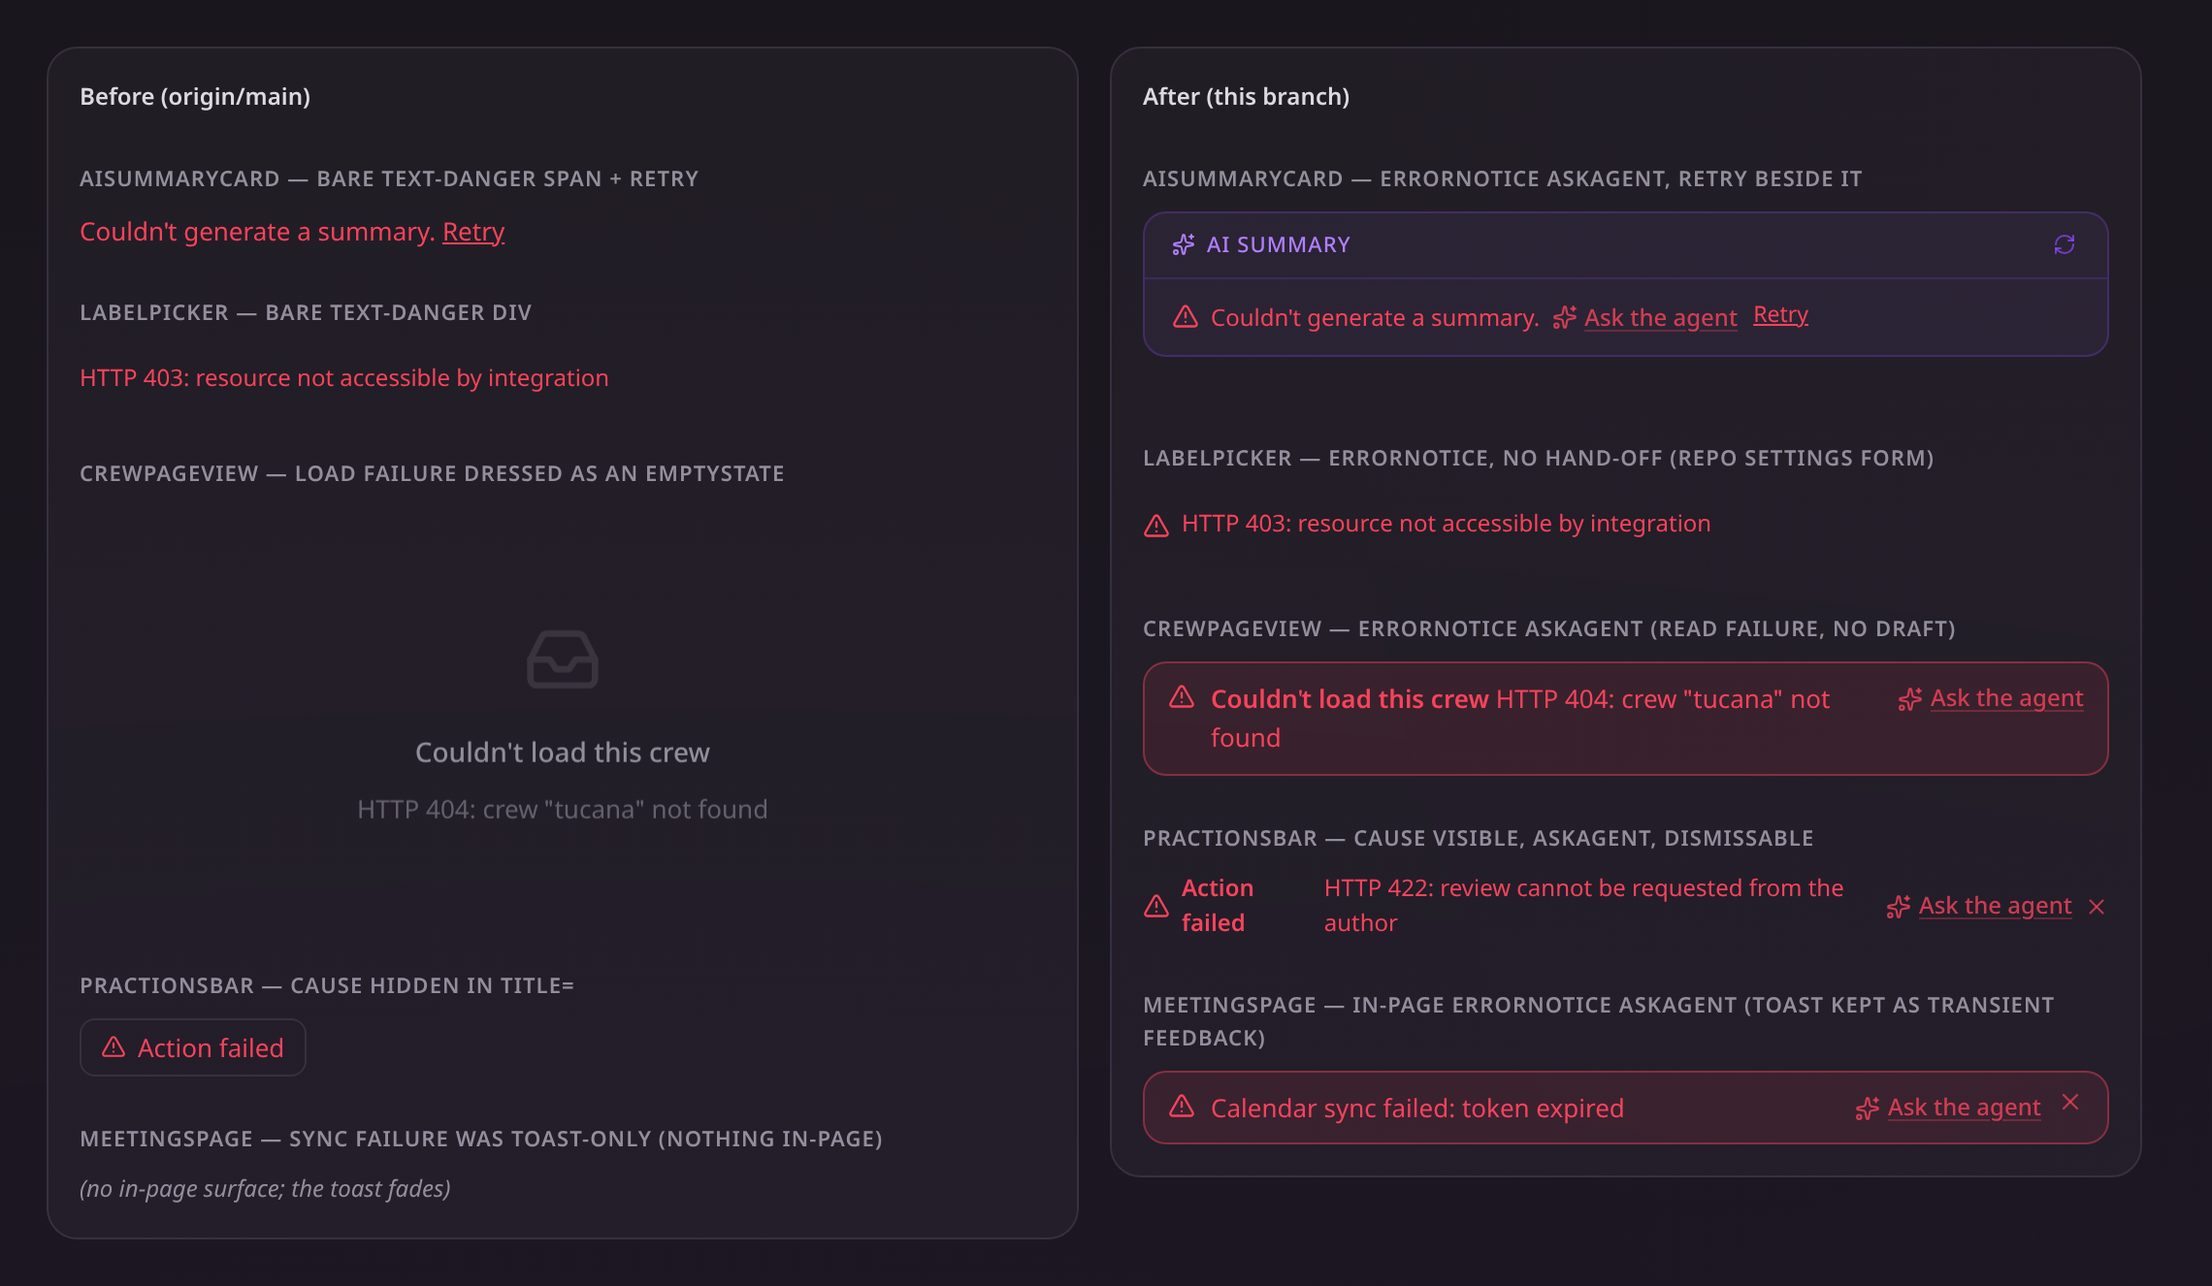
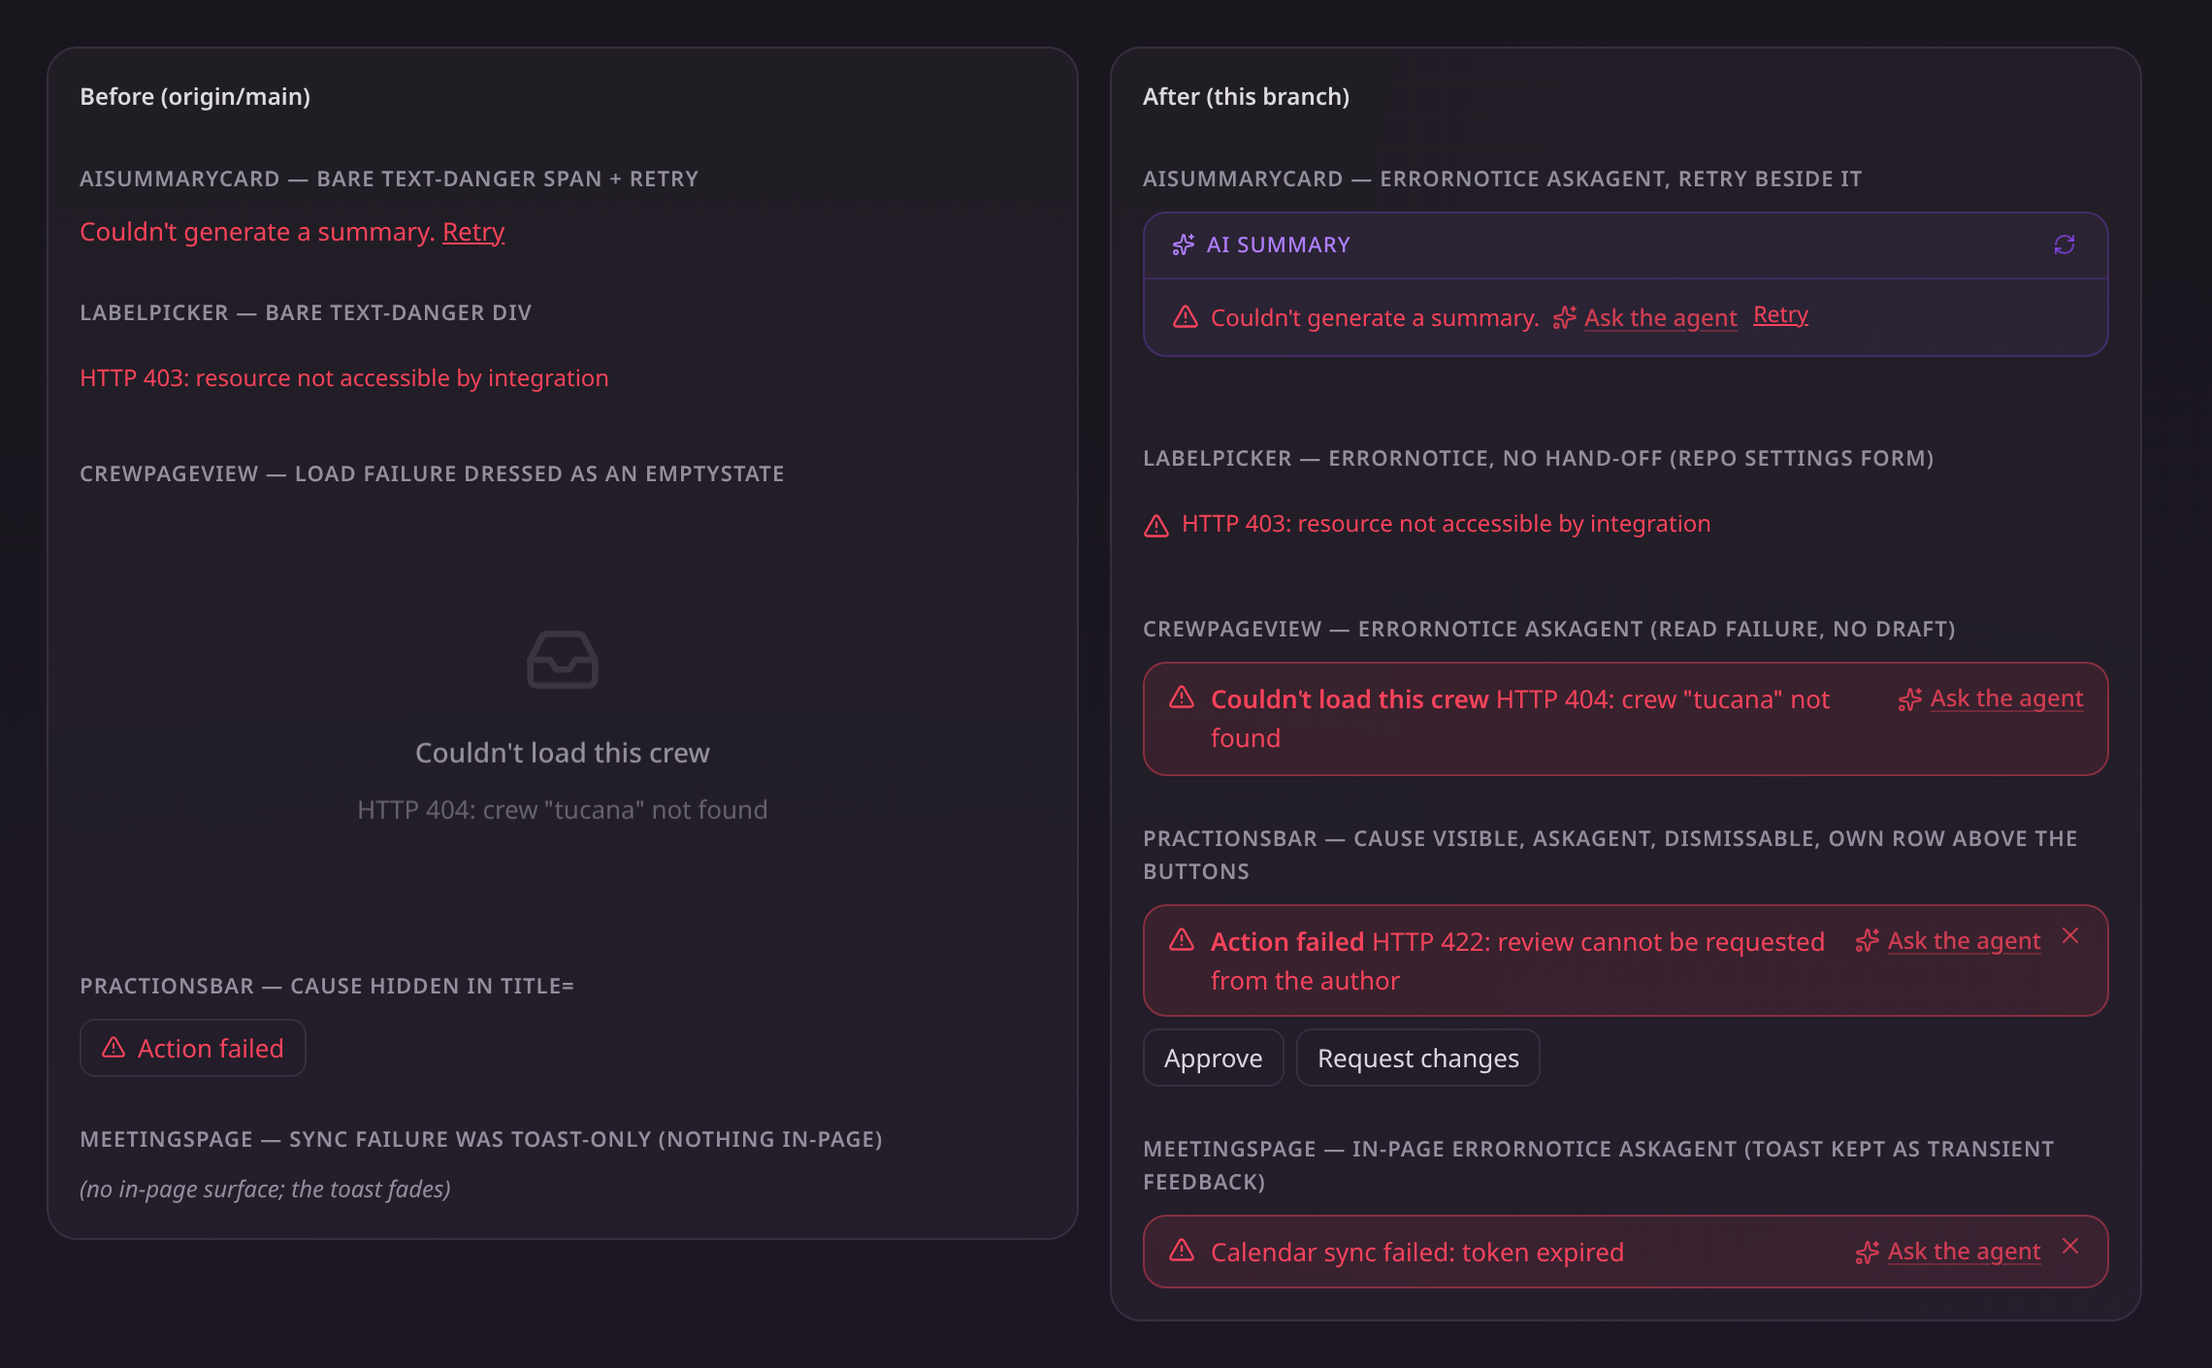
fix(apps): address round-1 review on error-notice apps-2
PrActionsBar: render the failure notice on its own row above the grandfathered action row (max-two-buttons-per-row). RepoSettings: fold the 'edits are kept here / restart the backend' consequence back inside the alert as a second message line (report resolved via findReport so the journal context survives) and capitalise the catalog sentence so it stands alone. Delete the orphaned prActionsBar.dismiss_error key from all 13 catalogs (deadKeys ratchet).

diff --git a/website/src/apps/issue-radar/components/PrActionsBar.tsx b/website/src/apps/issue-radar/components/PrActionsBar.tsx
@@ -296,136 +296,140 @@ export default function PrActionsBar({
   }
 
   return (
-    <div className="flex items-center gap-1.5 flex-wrap">
+    <div className="w-full min-w-0">
       {/* The composer is closed here, so nothing on screen is a draft: the
-          cause is shown in full (it used to hide in a `title=`) and handed off. */}
+          cause is shown in full (it used to hide in a `title=`) and handed off.
+          Its own row, above the buttons — the action row already carries its
+          pre-existing action count and must not grow. */}
       {actions.error && (
         <ErrorNotice
           title={i18nT('apps.issueRadar.components.prActionsBar.action_failed')}
           message={actions.error.message}
-          variant="inline"
           askAgent
           onDismiss={actions.clearError}
+          className="mb-1.5"
         />
       )}
 
-      {/* A closed PR keeps only "reopen": approving or arming auto-merge on it
-          would be refused by the provider. The two VERDICT buttons additionally wait
-          for the head commit — a review names the revision it was formed on, so
-          until the detail read lands there is nothing to pin one to. */}
-      {!closed && Boolean(reviewSha) && (
-        <>
+      <div className="flex items-center gap-1.5 flex-wrap">
+        {/* A closed PR keeps only "reopen": approving or arming auto-merge on it
+            would be refused by the provider. The two VERDICT buttons additionally wait
+            for the head commit — a review names the revision it was formed on, so
+            until the detail read lands there is nothing to pin one to. */}
+        {!closed && Boolean(reviewSha) && (
+          <>
+            <Btn
+              onClick={() => openComposer('approve')}
+              disabled={Boolean(actions.busy)}
+              // The provider's own word for the item ("pull request" / "merge
+              // request") is interpolated, so a GitLab workspace never reads "PR".
+              title={i18nT('apps.issueRadar.components.prActionsBar.approve_hint', {
+                subject: terms.changeRequestTitle,
+              })}
+            >
+              <Check className="lucide-inline" />
+              {i18nT('apps.issueRadar.components.prActionsBar.approve')}
+            </Btn>
+            <Btn
+              onClick={() => openComposer(PR_ACTION.requestChanges)}
+              disabled={Boolean(actions.busy)}
+              title={i18nT('apps.issueRadar.components.prActionsBar.request_changes_hint', {
+                subject: terms.changeRequestTitle,
+              })}
+            >
+              <CircleSlash className="lucide-inline" />
+              {i18nT('apps.issueRadar.components.prActionsBar.request_changes')}
+            </Btn>
+          </>
+        )}
+  
+        <Btn
+          onClick={() => openComposer('comment')}
+          disabled={Boolean(actions.busy)}
+          title={i18nT('apps.issueRadar.components.prActionsBar.comment_hint', {
+            subject: terms.changeRequestTitle,
+          })}
+        >
+          <MessageSquarePlus className="lucide-inline" />
+          {i18nT('apps.issueRadar.components.prActionsBar.comment')}
+        </Btn>
+  
+        {/* MERGE, offered only when the provider says the PR is mergeable right now.
+            It cannot bypass a gate — branch protection is enforced on the provider's
+            own endpoint — but showing it on a blocked PR would present a button whose
+            only outcome is a refusal, which is the "do not offer what the provider
+            will refuse" rule this bar follows everywhere else. Auto-merge below is the
+            affordance for exactly that case. */}
+        {!closed && mergeable && (
           <Btn
-            onClick={() => openComposer('approve')}
+            primary
+            // The sha THIS RENDER showed, closed over by the handler. Merge has no
+            // typing window like the composer, so one render tick is the whole
+            // exposure — and the server re-reads the PR and refuses a moved head
+            // (409 `merge_conflict`) regardless.
+            onClick={() => actions.merge(liveSha)}
             disabled={Boolean(actions.busy)}
-            // The provider's own word for the item ("pull request" / "merge
-            // request") is interpolated, so a GitLab workspace never reads "PR".
-            title={i18nT('apps.issueRadar.components.prActionsBar.approve_hint', {
+            title={i18nT('apps.issueRadar.components.prActionsBar.merge_hint', {
               subject: terms.changeRequestTitle,
             })}
           >
-            <Check className="lucide-inline" />
-            {i18nT('apps.issueRadar.components.prActionsBar.approve')}
+            {actions.busy === PR_ACTION.merge
+              ? <Loader2 className="lucide-inline animate-spin" />
+              : <GitMerge className="lucide-inline" />}
+            {i18nT('apps.issueRadar.components.prActionsBar.merge')}
           </Btn>
+        )}
+  
+        {!closed && showAutoMerge && (
           <Btn
-            onClick={() => openComposer(PR_ACTION.requestChanges)}
+            onClick={() => actions.setAutoMerge(!autoMergeOn)}
             disabled={Boolean(actions.busy)}
-            title={i18nT('apps.issueRadar.components.prActionsBar.request_changes_hint', {
+            // The label states what will HAPPEN, and the tooltip states what
+            // auto-merge is — the distinction between this and "merge now" is the
+            // whole point, so it is said in the UI rather than only in the code.
+            title={autoMergeOn
+              ? i18nT('apps.issueRadar.components.prActionsBar.auto_merge_off_hint')
+              : i18nT('apps.issueRadar.components.prActionsBar.auto_merge_on_hint')}
+            className={autoMergeOn ? 'text-aim border-aim' : undefined}
+          >
+            {actions.busy === PR_ACTION.autoMerge || actions.busy === PR_ACTION.cancelAutoMerge
+              ? <Loader2 className="lucide-inline animate-spin" />
+              : <GitMerge className="lucide-inline" />}
+            {autoMergeOn
+              ? i18nT('apps.issueRadar.components.prActionsBar.auto_merge_cancel')
+              : i18nT('apps.issueRadar.components.prActionsBar.auto_merge_enable')}
+          </Btn>
+        )}
+  
+        {closed ? (
+          <Btn
+            onClick={actions.reopen}
+            disabled={Boolean(actions.busy)}
+            title={i18nT('apps.issueRadar.components.prActionsBar.reopen_hint', {
               subject: terms.changeRequestTitle,
             })}
           >
-            <CircleSlash className="lucide-inline" />
-            {i18nT('apps.issueRadar.components.prActionsBar.request_changes')}
+            {actions.busy === PR_ACTION.reopen
+              ? <Loader2 className="lucide-inline animate-spin" />
+              : <CircleDot className="lucide-inline" />}
+            {i18nT('apps.issueRadar.components.prActionsBar.reopen')}
           </Btn>
-        </>
-      )}
-
-      <Btn
-        onClick={() => openComposer('comment')}
-        disabled={Boolean(actions.busy)}
-        title={i18nT('apps.issueRadar.components.prActionsBar.comment_hint', {
-          subject: terms.changeRequestTitle,
-        })}
-      >
-        <MessageSquarePlus className="lucide-inline" />
-        {i18nT('apps.issueRadar.components.prActionsBar.comment')}
-      </Btn>
-
-      {/* MERGE, offered only when the provider says the PR is mergeable right now.
-          It cannot bypass a gate — branch protection is enforced on the provider's
-          own endpoint — but showing it on a blocked PR would present a button whose
-          only outcome is a refusal, which is the "do not offer what the provider
-          will refuse" rule this bar follows everywhere else. Auto-merge below is the
-          affordance for exactly that case. */}
-      {!closed && mergeable && (
-        <Btn
-          primary
-          // The sha THIS RENDER showed, closed over by the handler. Merge has no
-          // typing window like the composer, so one render tick is the whole
-          // exposure — and the server re-reads the PR and refuses a moved head
-          // (409 `merge_conflict`) regardless.
-          onClick={() => actions.merge(liveSha)}
-          disabled={Boolean(actions.busy)}
-          title={i18nT('apps.issueRadar.components.prActionsBar.merge_hint', {
-            subject: terms.changeRequestTitle,
-          })}
-        >
-          {actions.busy === PR_ACTION.merge
-            ? <Loader2 className="lucide-inline animate-spin" />
-            : <GitMerge className="lucide-inline" />}
-          {i18nT('apps.issueRadar.components.prActionsBar.merge')}
-        </Btn>
-      )}
-
-      {!closed && showAutoMerge && (
-        <Btn
-          onClick={() => actions.setAutoMerge(!autoMergeOn)}
-          disabled={Boolean(actions.busy)}
-          // The label states what will HAPPEN, and the tooltip states what
-          // auto-merge is — the distinction between this and "merge now" is the
-          // whole point, so it is said in the UI rather than only in the code.
-          title={autoMergeOn
-            ? i18nT('apps.issueRadar.components.prActionsBar.auto_merge_off_hint')
-            : i18nT('apps.issueRadar.components.prActionsBar.auto_merge_on_hint')}
-          className={autoMergeOn ? 'text-aim border-aim' : undefined}
-        >
-          {actions.busy === PR_ACTION.autoMerge || actions.busy === PR_ACTION.cancelAutoMerge
-            ? <Loader2 className="lucide-inline animate-spin" />
-            : <GitMerge className="lucide-inline" />}
-          {autoMergeOn
-            ? i18nT('apps.issueRadar.components.prActionsBar.auto_merge_cancel')
-            : i18nT('apps.issueRadar.components.prActionsBar.auto_merge_enable')}
-        </Btn>
-      )}
-
-      {closed ? (
-        <Btn
-          onClick={actions.reopen}
-          disabled={Boolean(actions.busy)}
-          title={i18nT('apps.issueRadar.components.prActionsBar.reopen_hint', {
-            subject: terms.changeRequestTitle,
-          })}
-        >
-          {actions.busy === PR_ACTION.reopen
-            ? <Loader2 className="lucide-inline animate-spin" />
-            : <CircleDot className="lucide-inline" />}
-          {i18nT('apps.issueRadar.components.prActionsBar.reopen')}
-        </Btn>
-      ) : (
-        <Btn
-          danger
-          onClick={actions.close}
-          disabled={Boolean(actions.busy)}
-          title={i18nT('apps.issueRadar.components.prActionsBar.close_hint', {
-            subject: terms.changeRequestTitle,
-          })}
-        >
-          {actions.busy === PR_ACTION.close
-            ? <Loader2 className="lucide-inline animate-spin" />
-            : <CircleSlash className="lucide-inline" />}
-          {i18nT('apps.issueRadar.components.prActionsBar.close')}
-        </Btn>
-      )}
+        ) : (
+          <Btn
+            danger
+            onClick={actions.close}
+            disabled={Boolean(actions.busy)}
+            title={i18nT('apps.issueRadar.components.prActionsBar.close_hint', {
+              subject: terms.changeRequestTitle,
+            })}
+          >
+            {actions.busy === PR_ACTION.close
+              ? <Loader2 className="lucide-inline animate-spin" />
+              : <CircleSlash className="lucide-inline" />}
+            {i18nT('apps.issueRadar.components.prActionsBar.close')}
+          </Btn>
+        )}
+      </div>
     </div>
   )
 }

diff --git a/website/src/apps/issue-radar/views/settings/RepoSettings.tsx b/website/src/apps/issue-radar/views/settings/RepoSettings.tsx
@@ -17,6 +17,7 @@ import { asArray } from '../../lib/format'
 
 import { i18nT } from '../../../../i18n/t'
 import ErrorNotice from '../../../../components/ErrorNotice'
+import { findReport } from '../../../../utils/errorReport'
 // Heuristic name patterns used only to *suggest* likely labels (one-click add);
 // the user always confirms. Repos name these things a dozen different ways.
 const TRIAGE_PATTERN = /(^|[\s:_/-])(triage|untriaged|unconfirmed|pending|needs?[\s_/-]?(triage|info|repro|reproduction|investigation|review|response|details?|decision))/i
@@ -369,28 +370,33 @@ export default function RepoSettings({ repoRef }: { repoRef: RepoRef }) {
           : saveMutation.isSuccess ? <span className="ml-2 opacity-70 inline-flex items-center gap-1">{i18nT('apps.issueRadar.views.settings.repoSettings.saved')} <Check size={12} className="lucide-inline" /></span> : null}
       </p>
 
-      {(settingsQuery.isError || saveMutation.isError) && (
-        <div className="mb-6">
-          {settingsQuery.isError ? (
-            // A read; the form below still edits fine, so nothing is at stake.
-            <ErrorNotice
-              title={i18nT('apps.issueRadar.views.settings.repoSettings.couldn_t_load_saved_settings')}
-              message={(settingsQuery.error as Error)?.message}
-              askAgent
-            />
-          ) : (
-            /* No hand-off: the settings form below (label pickers, toggles) holds
-               the unsaved edits this failure is about. */
-            <ErrorNotice
-              title={i18nT('apps.issueRadar.views.settings.repoSettings.couldn_t_save_your_changes')}
-              message={(saveMutation.error as Error)?.message}
-            />
-          )}
-          <p className="mt-1.5 text-[12px] text-muted">
-            {i18nT('apps.issueRadar.views.settings.repoSettings.your_edits_are_kept_here_but_won_t_persist_if_yo')}
-          </p>
-        </div>
-      )}
+      {(settingsQuery.isError || saveMutation.isError) && (() => {
+        // The "edits are kept here / restart the backend" consequence rides
+        // INSIDE the alert as a second line, so a screen reader hears the fix
+        // with the failure. The raw message is still what the journal lookup
+        // keys on, so it is resolved separately and passed as `report`.
+        const raw = ((settingsQuery.error ?? saveMutation.error) as Error)?.message ?? ''
+        const message = `${raw}\n${i18nT('apps.issueRadar.views.settings.repoSettings.your_edits_are_kept_here_but_won_t_persist_if_yo')}`
+        return settingsQuery.isError ? (
+          // A read; the form below still edits fine, so nothing is at stake.
+          <ErrorNotice
+            title={i18nT('apps.issueRadar.views.settings.repoSettings.couldn_t_load_saved_settings')}
+            message={message}
+            report={findReport(raw)}
+            askAgent
+            className="mb-6"
+          />
+        ) : (
+          /* No hand-off: the settings form below (label pickers, toggles) holds
+             the unsaved edits this failure is about. */
+          <ErrorNotice
+            title={i18nT('apps.issueRadar.views.settings.repoSettings.couldn_t_save_your_changes')}
+            message={message}
+            report={findReport(raw)}
+            className="mb-6"
+          />
+        )
+      })()}
 
       <Card
         icon={Bell}

diff --git a/website/capture/error-notice-apps-2.tsx b/website/capture/error-notice-apps-2.tsx
@@ -104,9 +104,13 @@ function After() {
       <Section title="CrewPageView — ErrorNotice askAgent (read failure, no draft)">
         <ErrorNotice title="Couldn't load this crew" message={CREW_LOAD_ERROR} askAgent />
       </Section>
-      <Section title="PrActionsBar — cause visible, askAgent, dismissable">
-        <div className="flex items-center gap-1.5 flex-wrap">
-          <ErrorNotice title="Action failed" message={ACTION_ERROR} variant="inline" askAgent onDismiss={() => {}} />
+      <Section title="PrActionsBar — cause visible, askAgent, dismissable, own row above the buttons">
+        <div className="w-full min-w-0">
+          <ErrorNotice title="Action failed" message={ACTION_ERROR} askAgent onDismiss={() => {}} className="mb-1.5" />
+          <div className="flex items-center gap-1.5 flex-wrap">
+            <Btn>Approve</Btn>
+            <Btn>Request changes</Btn>
+          </div>
         </div>
       </Section>
       <Section title="MeetingsPage — in-page ErrorNotice askAgent (toast kept as transient feedback)">
